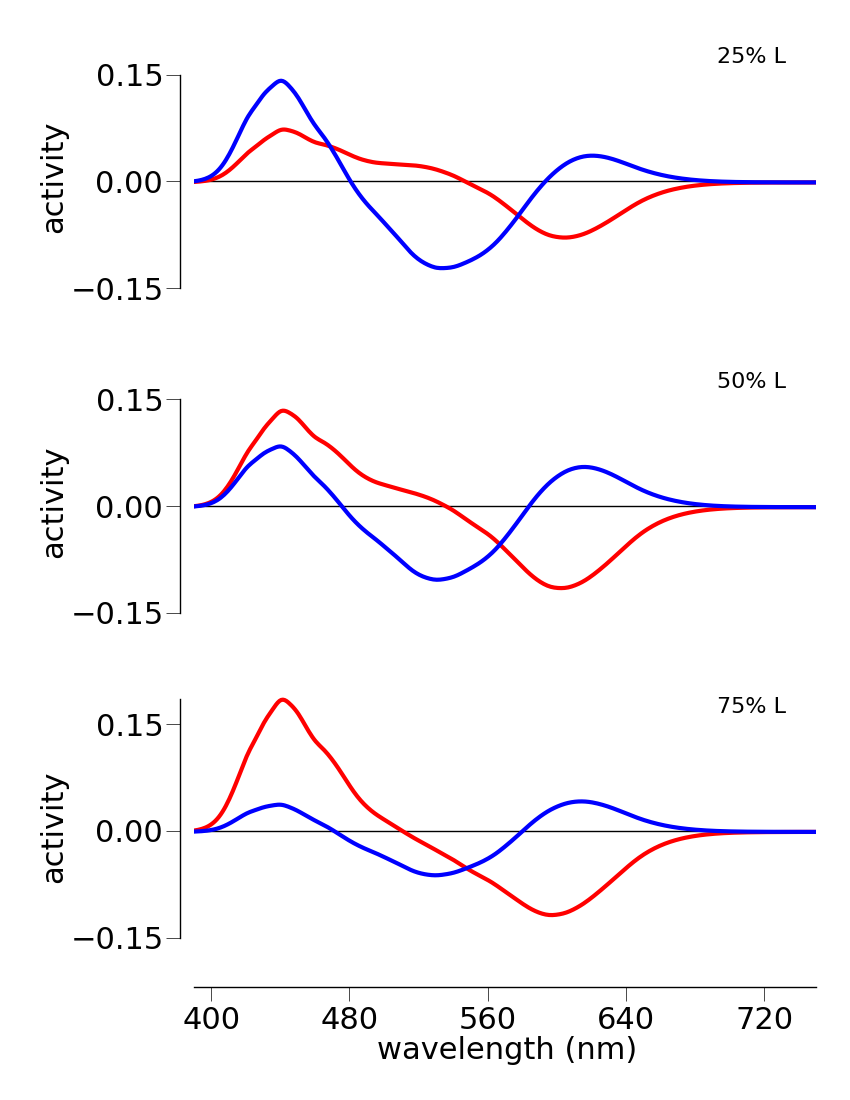
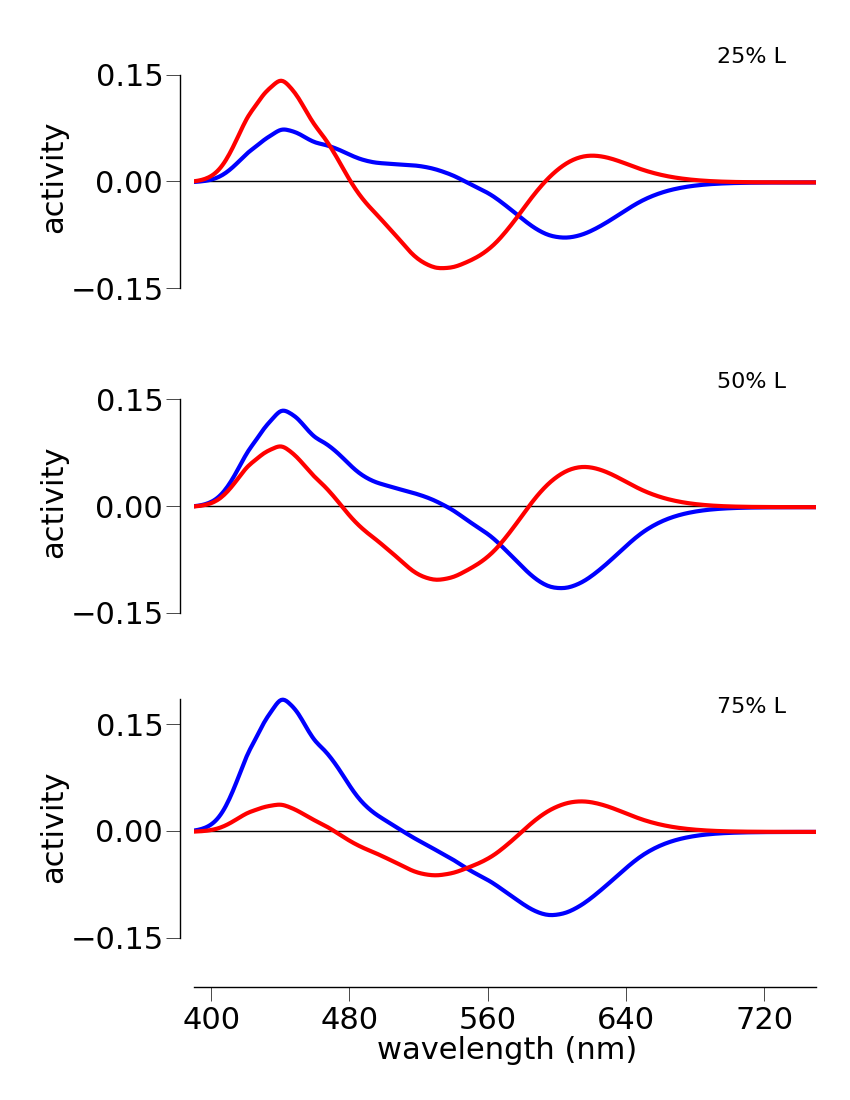
update figures

diff --git a/presentations/slides/colorModel/neitzModel.html b/presentations/slides/colorModel/neitzModel.html
@@ -28,8 +28,8 @@
         <h5> neitz model</h3>
         <div class="JAX">
           \[\begin{equation}
-          RG = (S+M) - L \\
-          BY = (S+L) - M 
+          BY = (S+M) - L \\
+          RG = (S+L) - M
           \end{equation} \]
         </div>
 	</div>
